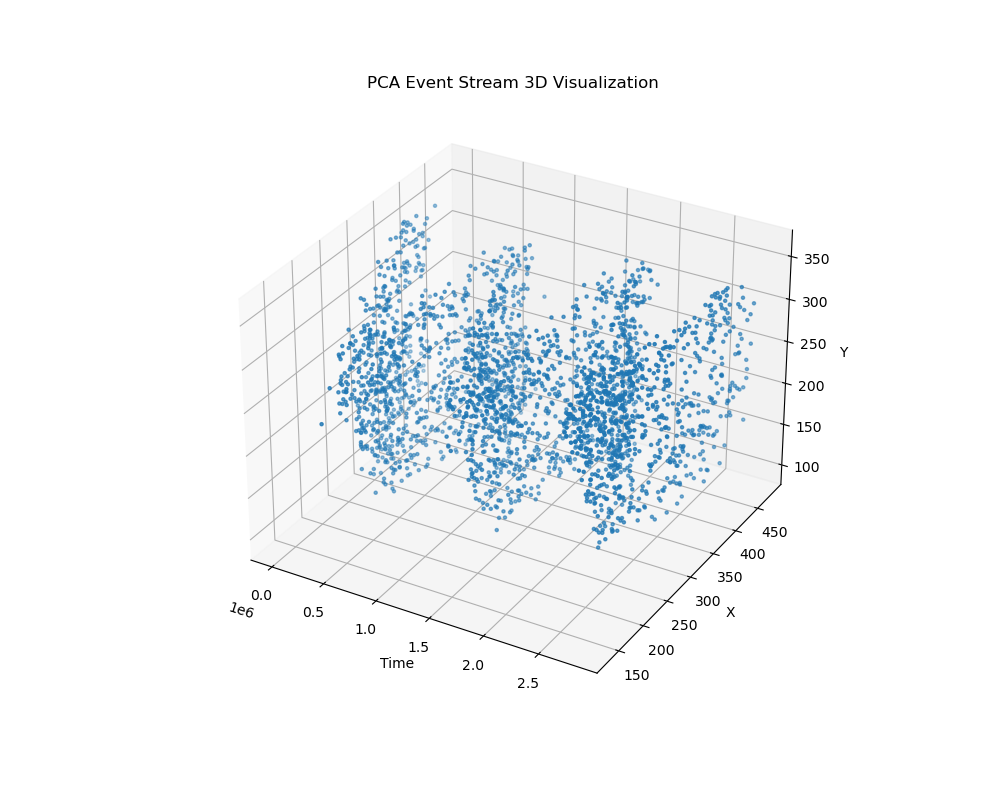
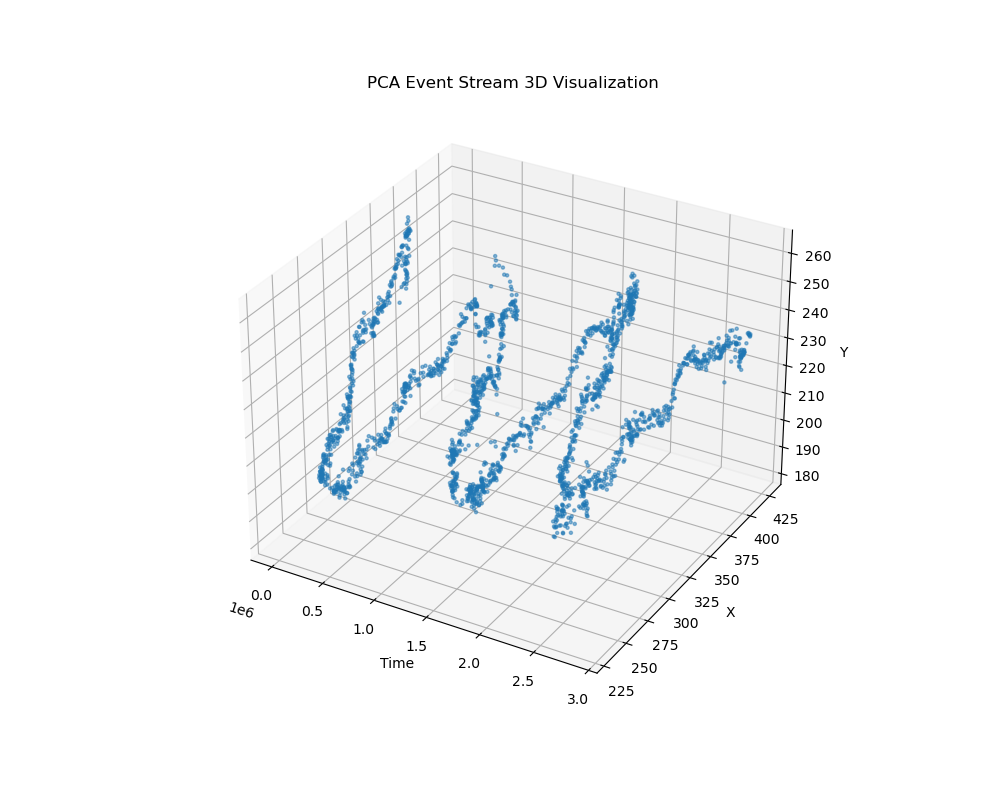
Stopped working on python script now trying out c++ code.

diff --git a/PCA.py b/PCA.py
@@ -54,7 +54,7 @@ X_Data = np.array(X_Data)
 Y_Data = np.array(Y_Data)
 
 # Define window and step sizes
-Window_Size = 100000
+Window_Size = 5000
 Step_Size = Window_Size//2
 
 # Loop through the data and filter
@@ -71,7 +71,7 @@ for i in range(0, len(Times) - Window_Size + 1, Step_Size):
     Mean_X, Mean_Y = np.mean(Window_X), np.mean(Window_Y)
     X_Centers.append(Mean_X)
     Y_Centers.append(Mean_Y)
-    Times_Middle.append(np.mean(Window_Times))
+    Times_Middle.append(np.median(Window_Times))
 
     # Get PCA for the window and get the unit eigen vectors
     (Lambda_1, Lambda_2), (V1, V2) = Get_PCA(Window_X, Window_Y)
@@ -97,7 +97,7 @@ Axe.set_title(f"PCA Event Stream 3D Visualization")
 Axe.set_xlabel("Time")
 Axe.set_ylabel("X")
 Axe.set_zlabel("Y")
-Axe.scatter(Times_Clean[::2000], X_Clean[::2000], Y_Clean[::2000], s = 5)
+Axe.scatter(Times_Middle, X_Centers, Y_Centers, s = 5, alpha = 0.5)
 
 # PCA vectors 
 Times_Middle = Times_Middle - Times_Middle[0]
